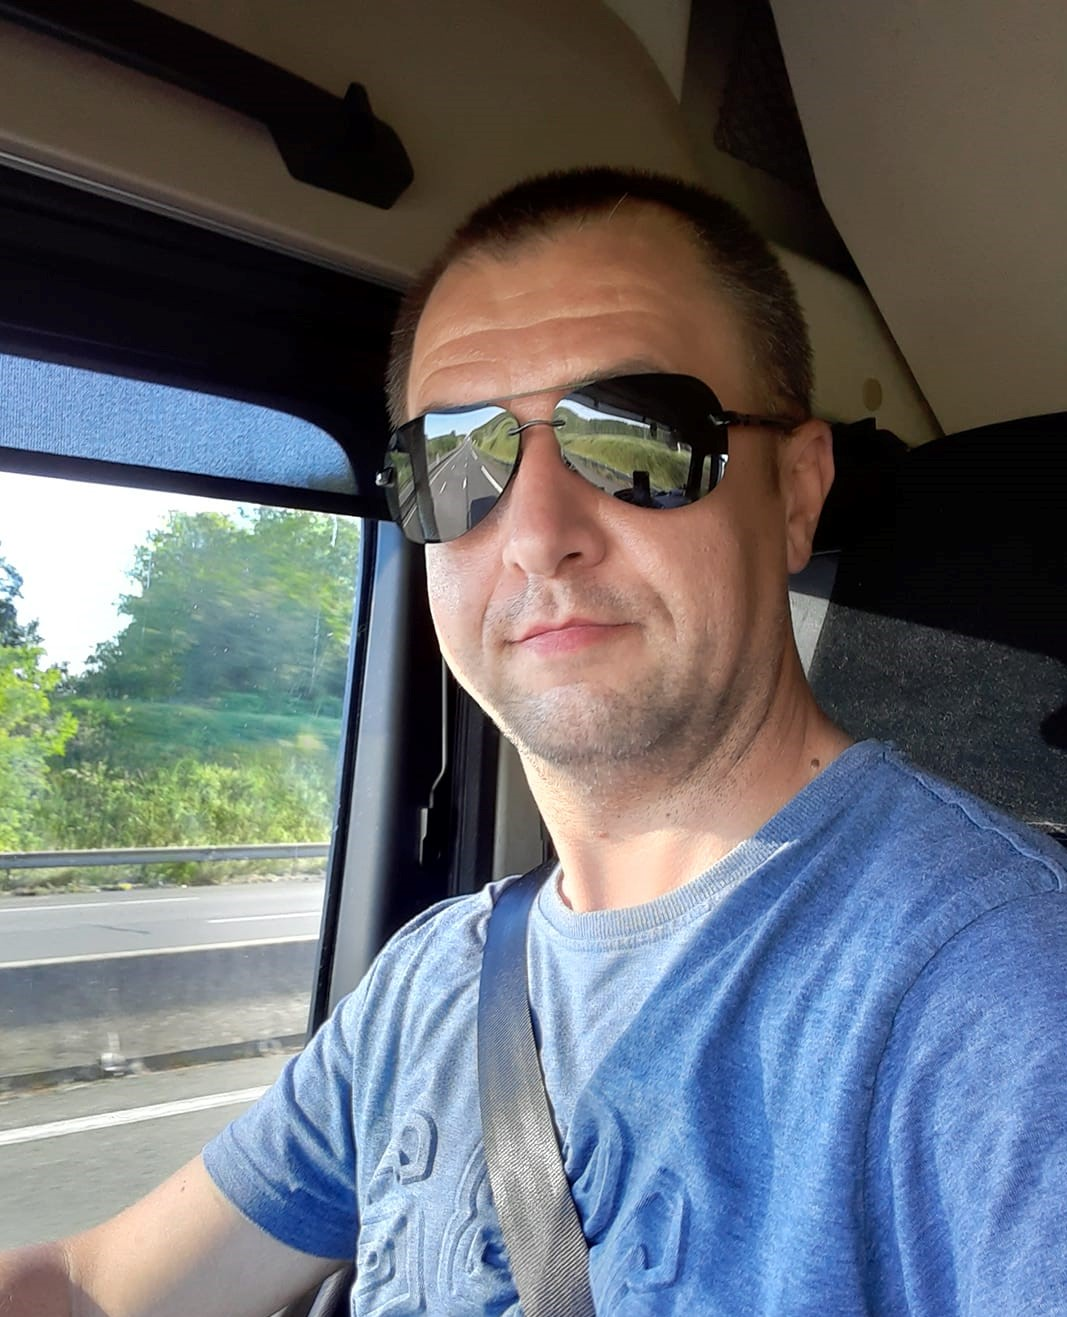
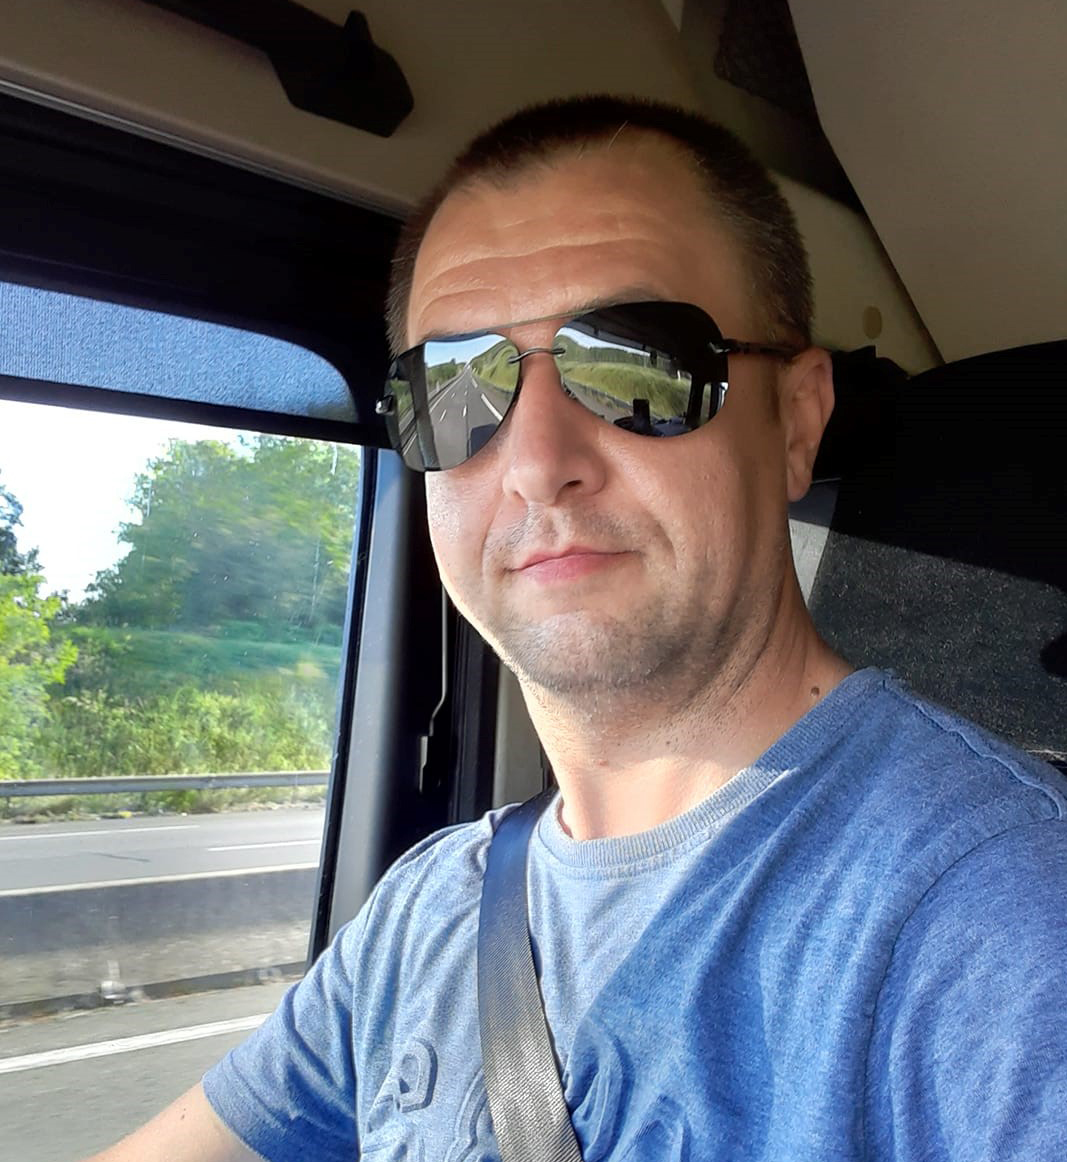
fix a bit the card image

diff --git a/index.html b/index.html
@@ -194,7 +194,7 @@
             <div class="card shadow-sm wow fadeInUp" data-wow-delay="0.1s">
               <div class="row">
                 <div class="col-md-4">
-                  <img src="img/gallery/marius.jpg" class="img-fluid card-image" style="height: 100%;"/>
+                  <img src="img/gallery/marius.jpg" class="img-fluid card-image"/>
                 </div>
                 <div class="col-md-8">
                   <div class="card-body">

diff --git a/css/styles.css b/css/styles.css
@@ -190,3 +190,9 @@ i.fab {
     min-height: 480px;
   }
 }
+
+@media screen and (min-width: 770px) {
+  .card-image {
+    height: 100%;
+  }  
+}
